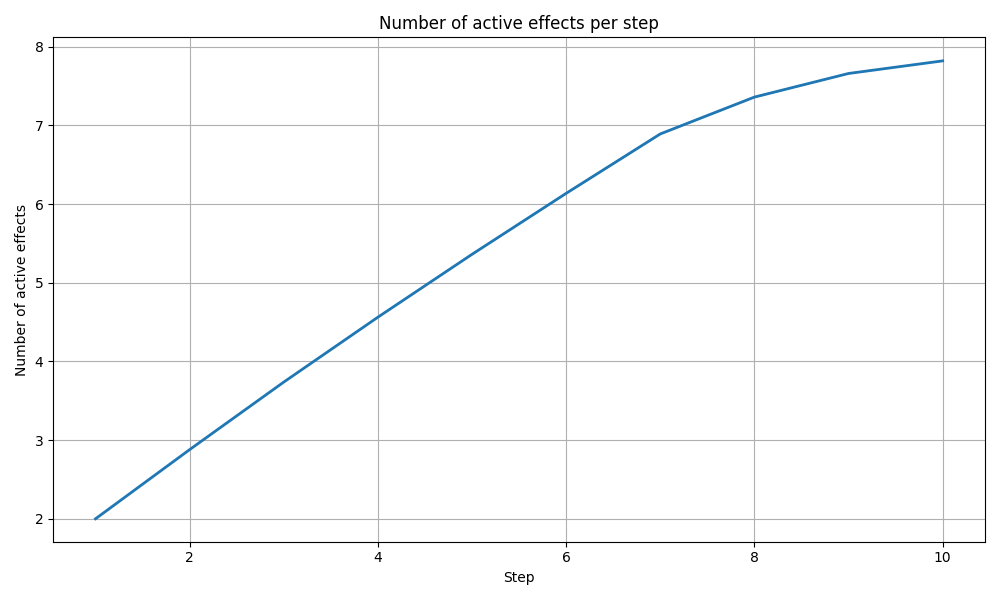
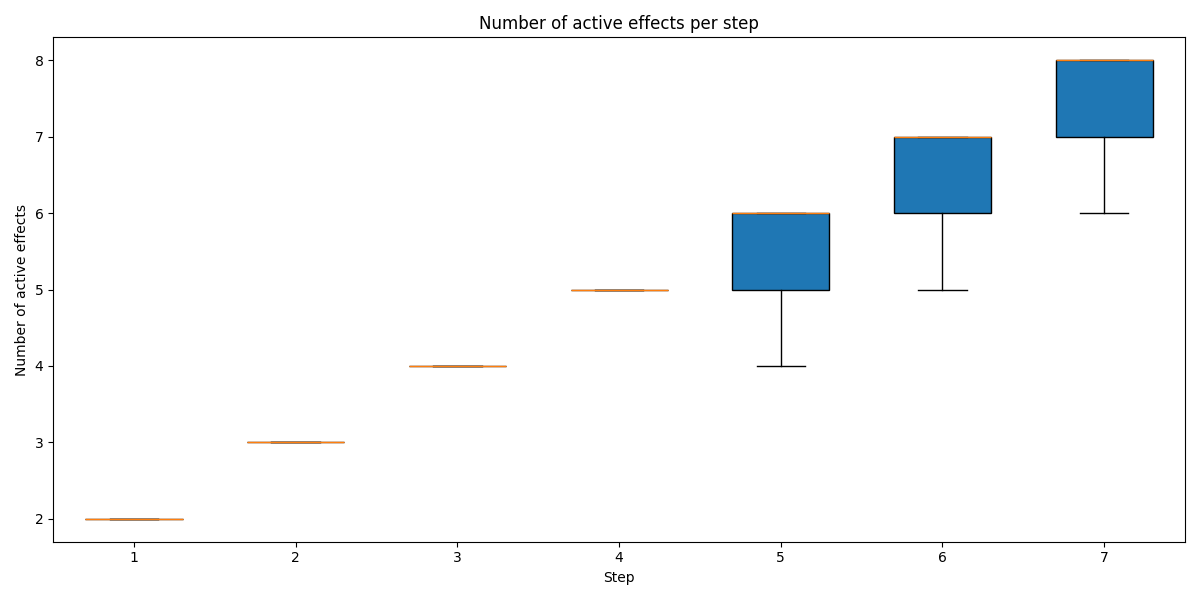
♻ refactor plotting functions: replace visualization functions with heatmaps and boxplots; update simulation parameters for optimization

diff --git a/code/plots.py b/code/plots.py
@@ -1,115 +1,105 @@
 """Script to visualize plots of optimization."""
 import matplotlib.pyplot as plt
 import numpy as np
-import pandas as pd
 import torch
+from typing import List
 
 
-def visualize_ingredients_choice(
-    ingredients: torch.Tensor,
-    ingredients_df: pd.DataFrame,
-    n_ingredients: int):
-    """Visualize ingredients choice in bar plots."""
-    ingredients = ingredients.int()
-    num_steps = ingredients.shape[0]
+def plot_ingredients_heatmap(
+    recipes: torch.Tensor,
+    ingredients_name: List[str],
+    ):
+    """Visualize ingredients relative frequency per step."""
+    recipes = recipes.int()
+    num_steps = recipes.shape[0]
+    n_ingredients = len(ingredients_name)
+
+    # Calculate relative frequency of each ingredient per step
     ingredients_count = torch.stack([
-        torch.bincount(ingredients[step], minlength=n_ingredients + 1)
+        torch.bincount(recipes[step], minlength=n_ingredients + 1)
         for step in range(num_steps)
     ])
     ingredients_proportion = (
         ingredients_count /
         ingredients_count.sum(dim=1, keepdim=True)
-    ).cpu().numpy()  # shape: (num_steps, n_ingredients+1)
-
-    steps = np.arange(1, num_steps + 1)
-    # Cada linha: ingrediente, cada coluna: step
-    data = ingredients_proportion.T  # shape: (n_ingredients+1, num_steps)
+    ).cpu().numpy().T
 
     fig, ax = plt.subplots(figsize=(12, 6))
-    cmap = (
-        plt.get_cmap('tab20')
-        if n_ingredients <= 20
-        else plt.cm.get_cmap('hsv', n_ingredients)
+    im = ax.imshow(
+        ingredients_proportion,
+        aspect='auto',
+        cmap='viridis',
+        origin='lower'
     )
-    colors = [cmap(i) for i in range(n_ingredients + 1)]
-    labels = [ingredients_df.iloc[i]['ingredient_name'] if i < n_ingredients else 'REMOVE' for i in range(n_ingredients + 1)]
-
-    ax.stackplot(steps, data, labels=labels, colors=colors)
-    ax.set_xlabel('Simulation step')
-    ax.set_ylabel('Ingredient proportion')
-    ax.set_title('Ingredient choice proportion per simulation step')
-    ax.set_xlim(1, num_steps)
-    ax.set_ylim(0, 1)
-    ax.set_yticks(np.linspace(0, 1, 11))
-    ax.set_yticklabels([f'{int(y * 100)}%' for y in np.linspace(0, 1, 11)])
-    ax.legend(title='Ingredients', bbox_to_anchor=(1.05, 1), loc='upper left')
+    ax.set_xlabel('Step')
+    ax.set_ylabel('Ingredient')
+    ax.set_title('Relative frequency of ingredient')
+    ax.set_xticks(np.arange(num_steps))
+    ax.set_xticklabels(np.arange(num_steps) + 1)
+    ax.set_yticks(np.arange(n_ingredients + 1))
+    ax.set_yticklabels(ingredients_name + ['Remove'])
+    fig.colorbar(im, ax=ax, label='Mean relative frequency')
     fig.tight_layout()
-    fig.savefig("../plots/ingredients_choice.png")
+    fig.savefig("../plots/ingredients_heatmap.png")
+    plt.show()
 
 
-def visualize_profits(profits: torch.Tensor):
-    """Visualize profit time series."""
-    num_steps = profits.shape[0]
-    profits = profits.cpu().numpy()
-
-    steps = np.arange(1, num_steps + 1)
-
-    mean = profits.mean(axis=1)
-    sem = profits.std(axis=1) / np.sqrt(profits.shape[1])
-    ci_upper = mean + 1.96 * sem
-    ci_lower = mean - 1.96 * sem
-
-    # Plot profits
-    fig = plt.figure(figsize=(10, 6))
-    plt.plot(
-        steps,
-        mean,
-        linewidth=2,
-    )
-    plt.fill_between(
-        steps,
-        ci_lower,
-        ci_upper,
-        alpha=0.3,
-    )
-    plt.xlabel('Step')
-    plt.ylabel('Profit')
-    plt.title('Profit per step')
-    plt.grid(True)
-    fig.tight_layout()
-    fig.savefig("../plots/profits_series.png")
-
-
-def visualize_effects(effects: torch.Tensor):
-    """Visualize effects time series."""
+def plot_effects_heatmap(
+    effects: torch.Tensor,
+    effects_name: List[str]
+):
+    """Visualize the relative frequency of each effect."""
     num_steps = effects.shape[0]
-    effects = effects.cpu().numpy()
+    n_effects = effects.shape[2]
+
+    # Calculate mean presence of each effect per step
+    effects_mean = torch.zeros((num_steps, n_effects), dtype=torch.float32)
+    effects_count = torch.zeros(num_steps, dtype=torch.int32)
+    for step in range(num_steps):
+        effects_mean[step] = effects[step].mean(dim=0).float()
+        effects_count[step] = torch.unique(effects[step], dim=0).shape[0]
+
+    # Plot heatmap of effects_mean
+    fig, ax = plt.subplots(figsize=(12, 6))
+    im = ax.imshow(
+        effects_mean.cpu().numpy().T,
+        aspect='auto',
+        cmap='viridis',
+        origin='lower'
+    )
+    ax.set_xlabel('Step')
+    ax.set_ylabel('Effect')
+    ax.set_title('Relative frequency of effects per step')
+    ax.set_xticks(np.arange(num_steps))
+    ax.set_yticks(np.arange(n_effects))
+    ax.set_yticklabels(effects_name)
+    fig.colorbar(im, ax=ax, label='Mean relative frequency')
+    fig.tight_layout()
+    fig.savefig("../plots/effects_heatmap.png")
+    plt.show()
+
+
+def plot_profits_boxplot(profits: torch.Tensor):
+    """Visualize profit distribution for each step using box plots."""
+    num_steps = profits.shape[0]
+    profits = profits.cpu().numpy()  # shape: (num_steps, num_samples)
 
     steps = np.arange(1, num_steps + 1)
 
-    effects_sum = effects.sum(axis=2)
-    mean = effects_sum.mean(axis=1)
-    sem = effects_sum.std(axis=1) / np.sqrt(effects_sum.shape[1])
-    ci_upper = mean + 1.96 * sem
-    ci_lower = mean - 1.96 * sem
-
-    # Plot effects
-    fig = plt.figure(figsize=(10, 6))
-    plt.plot(
-        steps,
-        mean,
-        linewidth=2,
+    fig, ax = plt.subplots(figsize=(12, 6))
+    # Create a list of arrays, one per step, for boxplot
+    data = [profits[step] for step in range(num_steps)]
+    ax.boxplot(
+        data,
+        positions=steps,
+        widths=0.6,
+        patch_artist=True,
+        showfliers=False
     )
-    plt.fill_between(
-        steps,
-        ci_lower,
-        ci_upper,
-        alpha=0.3,
-    )
-    plt.xlabel('Step')
-    plt.ylabel('Number of active effects')
-    plt.title('Number of active effects per step')
-    plt.grid(True)
+    ax.set_xlabel('Step')
+    ax.set_ylabel('Profit')
+    ax.set_title('Profit distribution per step')
+    ax.set_xlim(0.5, num_steps + 0.5)
     fig.tight_layout()
-    fig.savefig("../plots/effects_series.png")
+    fig.savefig("../plots/profit_boxplot.png")
     plt.show()

diff --git a/code/main.py b/code/main.py
@@ -1,8 +1,8 @@
 """Main script."""
 from plots import (
-    visualize_ingredients_choice,
-    visualize_effects,
-    visualize_profits
+    plot_ingredients_heatmap,
+    plot_effects_heatmap,
+    plot_profits_boxplot,
 )
 from simulate import ChainSimulation
 
@@ -35,7 +35,7 @@ results_data, results_opt = chain.optimize_recipe(
     objective_function='profit',
     num_simulations=1,
     batch_size=15_000,
-    num_steps=10,
+    num_steps=7,
     T0=10.0
 )
 print(
@@ -49,15 +49,17 @@ Lucro: {results_opt["profit"]}
 """
 )
 
-# Plot simulation graphs
-visualize_ingredients_choice(
-    results_data['recipes'],
-    n_ingredients=chain.n_ingredients,
-    ingredients_df=chain.ingredients_df,
+# Plot results
+plot_ingredients_heatmap(
+    recipes=results_data['recipes'],
+    ingredients_name=chain.ingredients_df['ingredient_name'].tolist(),
 )
-visualize_profits(
-    profits=results_data['profits'],
-)
-visualize_effects(
+
+plot_effects_heatmap(
     effects=results_data['effects'],
+    effects_name=chain.effects_df['effect_name'].tolist(),
 )
+
+# plot_profits_boxplot(
+#     profits=results_data['profits'],
+# )
